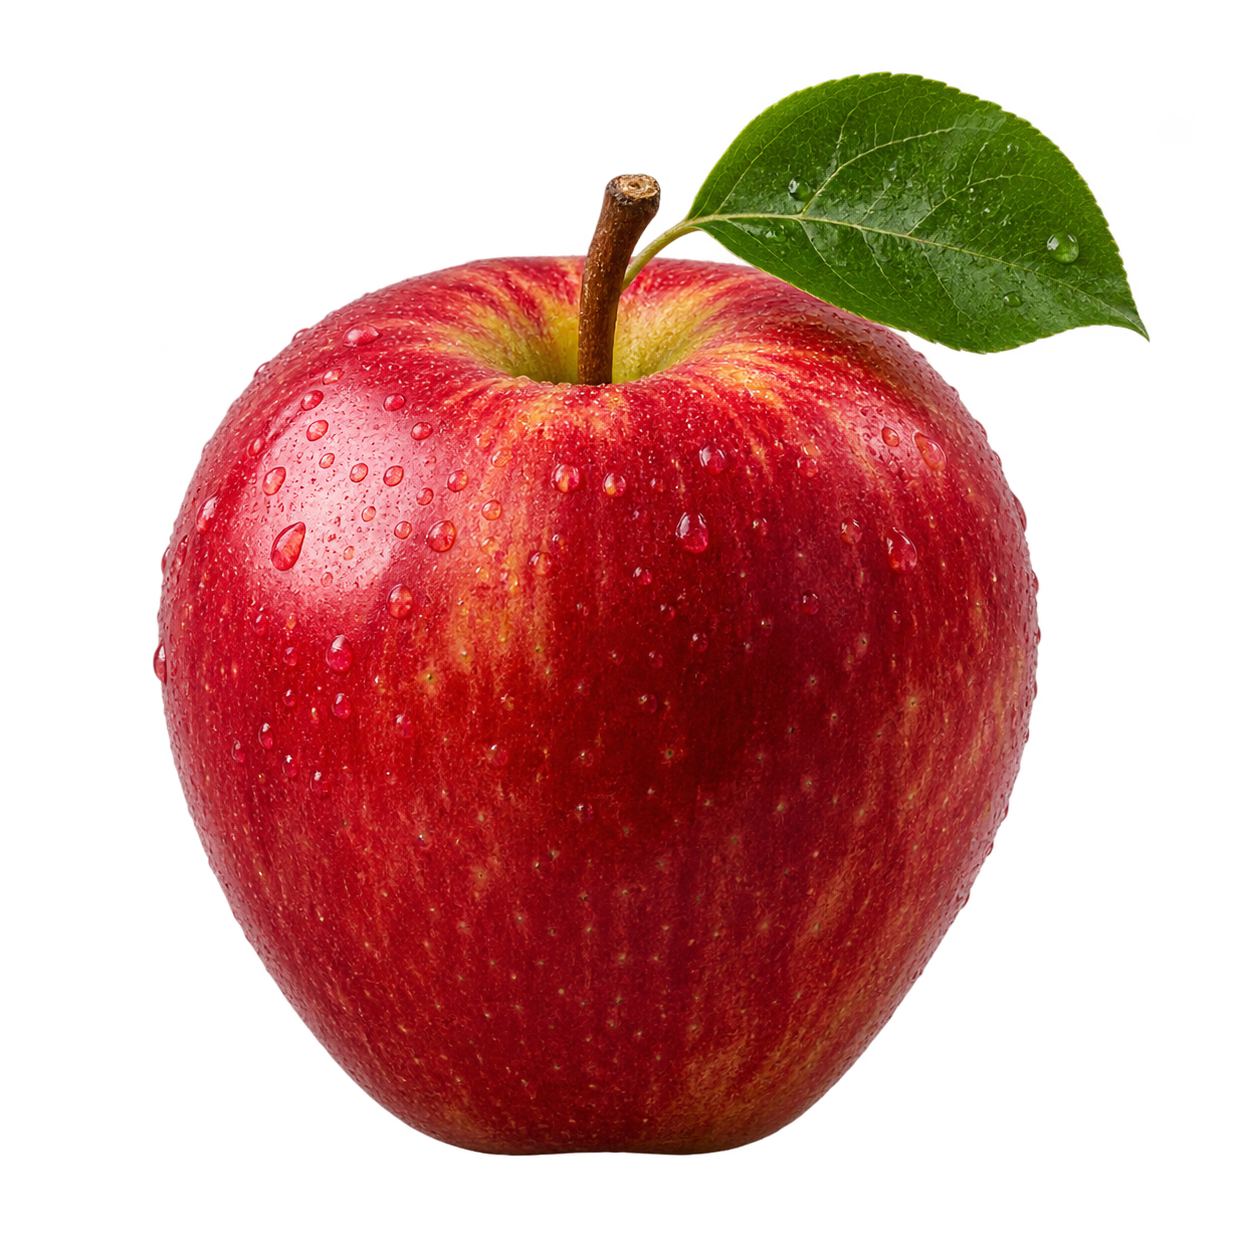
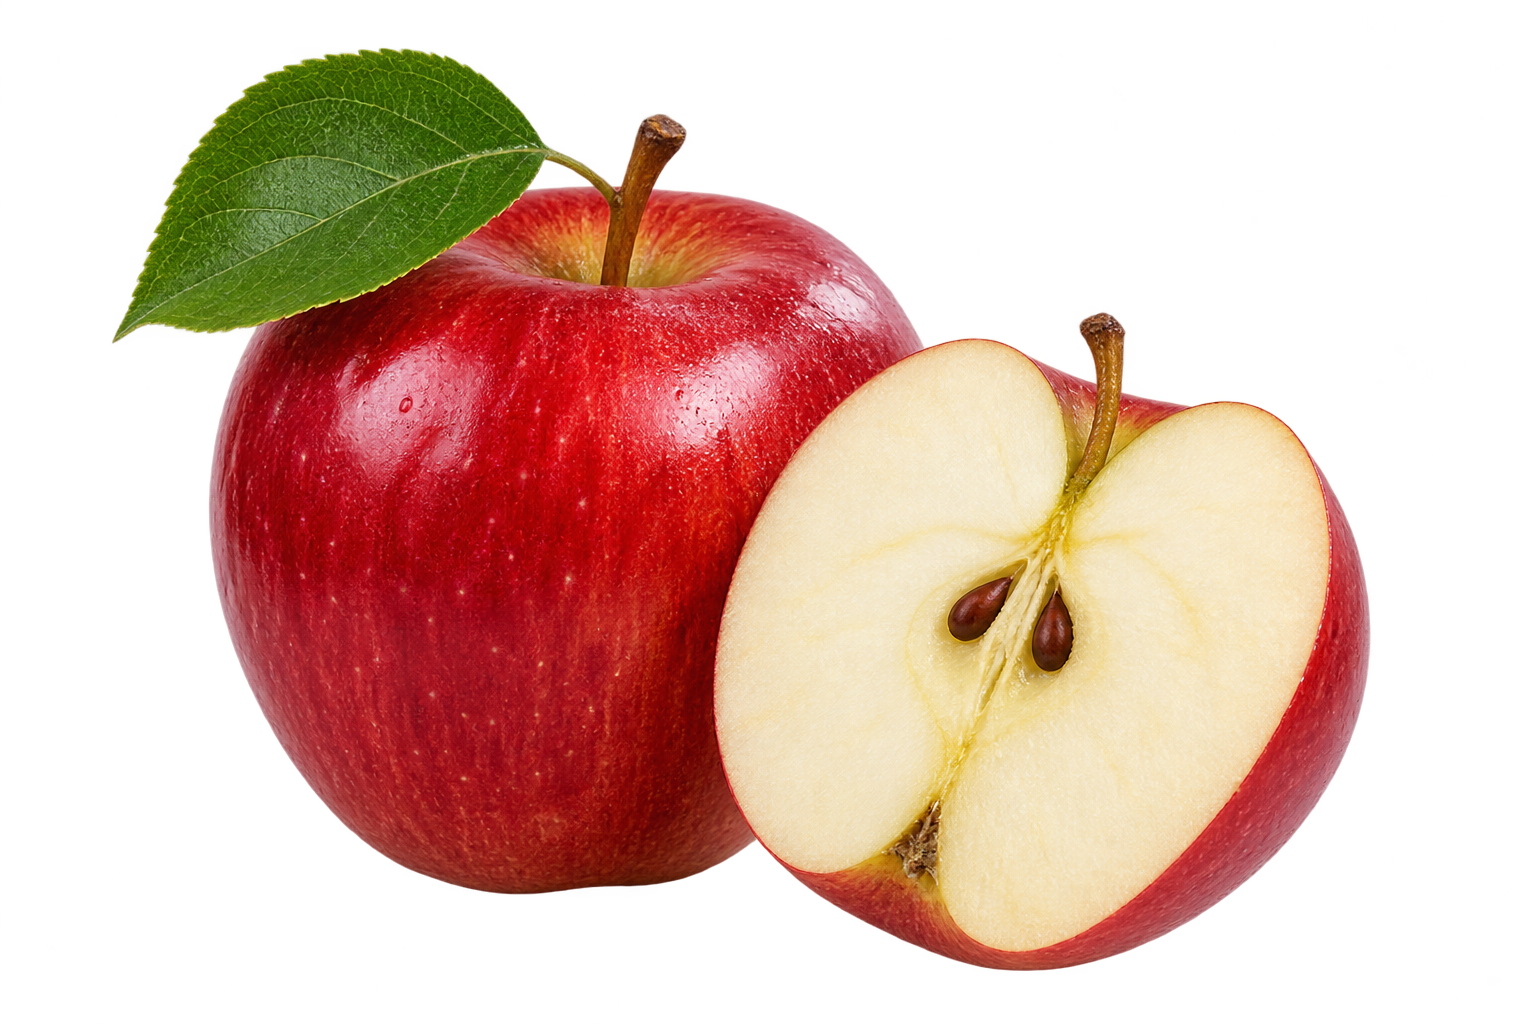
Thêm sản phẩm nước ép, dưa hấu và cập nhật ảnh

diff --git a/vending-client/src/App.jsx b/vending-client/src/App.jsx
@@ -78,6 +78,12 @@ function categoryEmoji(name = "") {
 
 function productArt(name = "", category = "") {
   const value = (name + " " + category).toLowerCase();
+  if (value.includes("nước ép") || value.includes("juice")) return "🧃";
+  if (value.includes("dưa hấu")) return "🍉";
+  if (value.includes("mix")) return "🍱";
+  if (value.includes("pear") || value.includes("lê")) return "🍐";
+  if (value.includes("guava") || value.includes("ổi")) return "🍈";
+  if (value.includes("mandarin") || value.includes("quýt")) return "🍊";
   if (value.includes("apple") || value.includes("táo")) return "🍎";
   if (value.includes("orange") || value.includes("cam")) return "🍊";
   if (value.includes("banana") || value.includes("chuối")) return "🍌";
@@ -89,6 +95,20 @@ function productArt(name = "", category = "") {
 
 function productImage(name = "") {
   const value = name.toLowerCase();
+  if (value.includes("nước ép táo")) return "/products/apple-juice.png";
+  if (value.includes("nước ép chanh dây")) return "/products/passionfruit-juice.png";
+  if (value.includes("nước ép cam")) return "/products/orange-juice-carton.png";
+  if (value.includes("nước ép xoài")) return "/products/mango-juice.png";
+  if (value.includes("nước ép dưa hấu")) return "/products/watermelon-juice.png";
+  if (value.includes("dưa hấu")) return "/products/watermelon-ready.png";
+  if (value.includes("mix 5")) return "/products/mix-five.png";
+  if (value.includes("mix 3")) return "/products/mix-three.png";
+  if (value.includes("pear") || value.includes("lê"))
+    return "/products/pear.png";
+  if (value.includes("guava") || value.includes("ổi"))
+    return "/products/guava.png";
+  if (value.includes("mandarin") || value.includes("quýt"))
+    return "/products/mandarin.png";
   if (value.includes("apple") || value.includes("táo"))
     return "/products/apple.png";
   if (value.includes("banana") || value.includes("chuối"))
